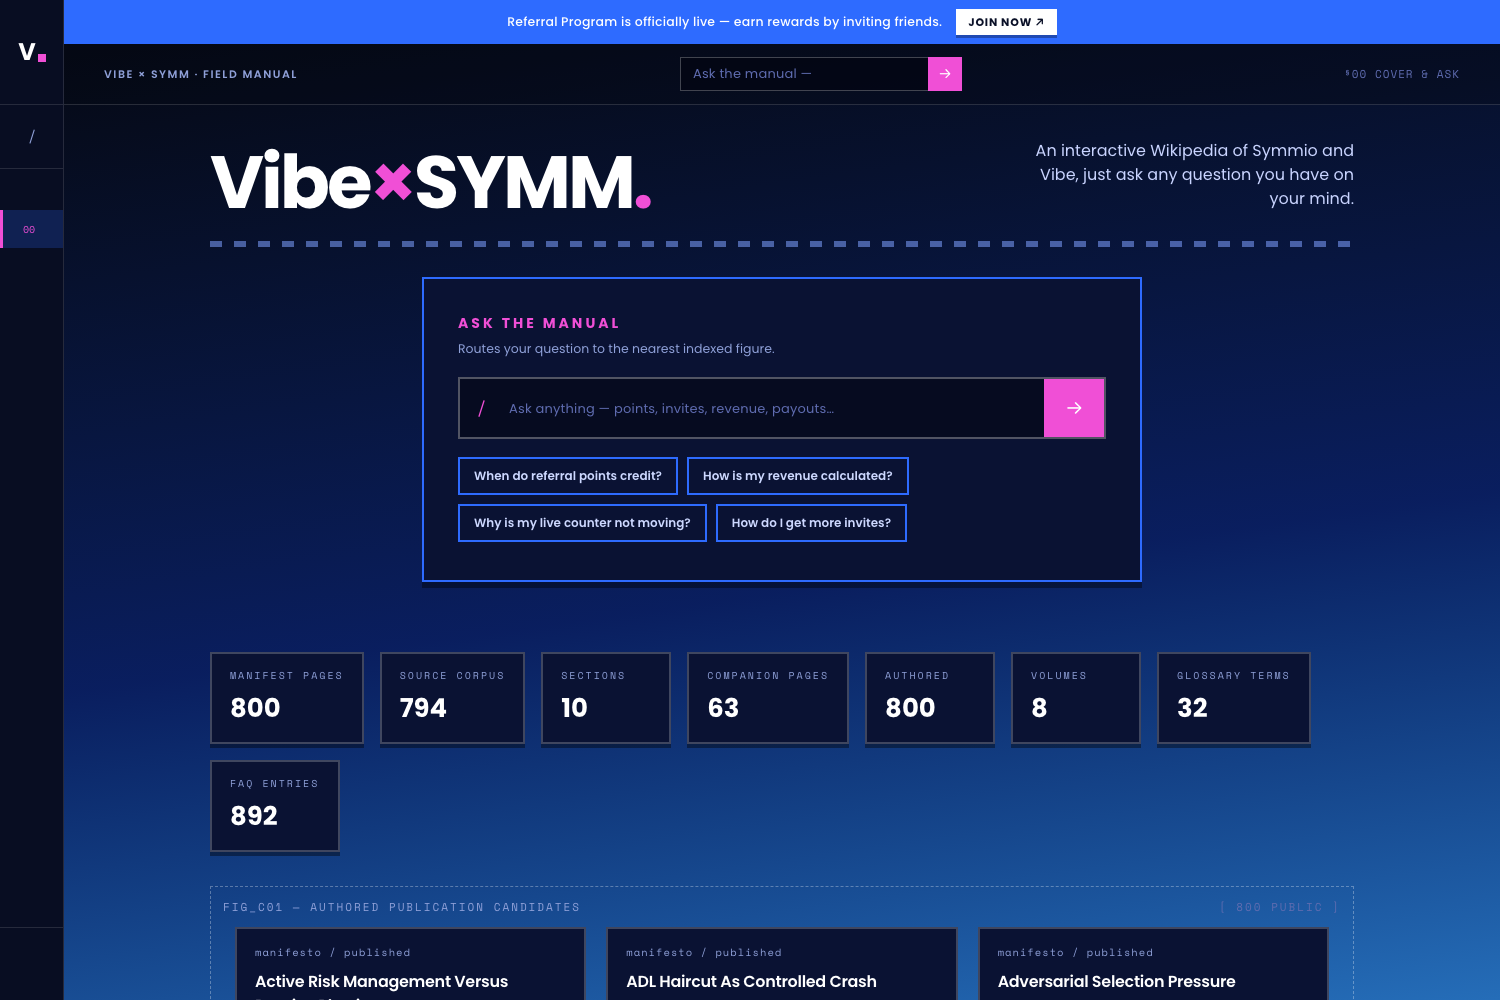
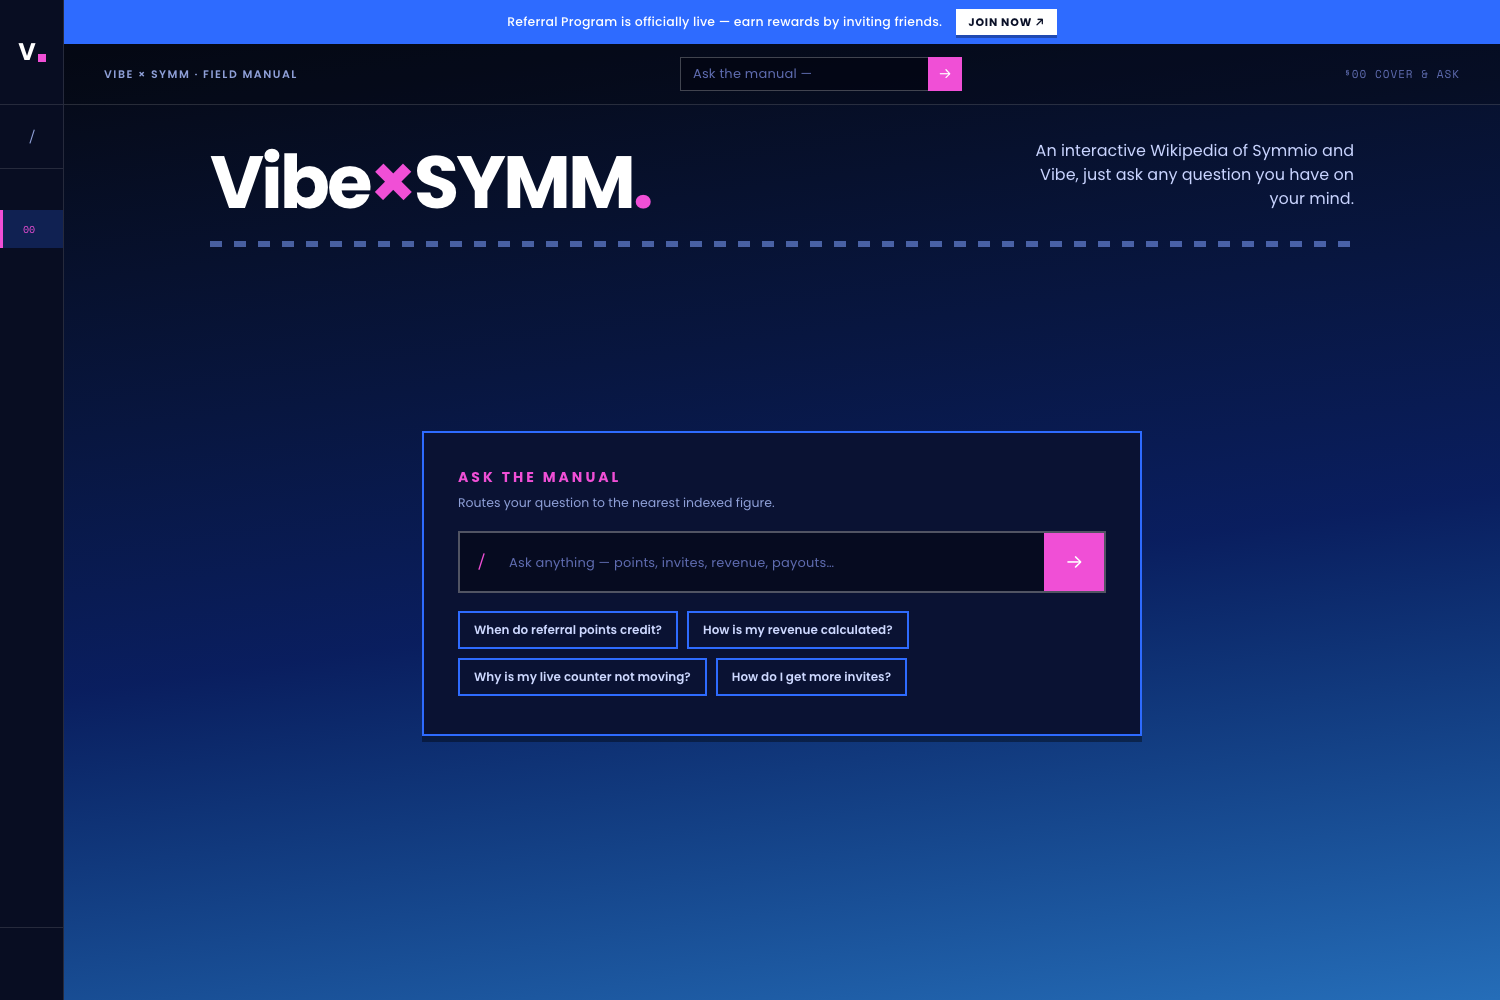
Strip §00 cover to hero + Ask panel in source (SYN-361)
Unmount CoverIndex from CoverView (component kept in tree unused),
annotate the renderCards/renderAuthoredCards operator waiver in the
parity checklist, and retake the desktop + mobile cover fidelity shots
against the rebuilt dist — previous shots were captured with the
plates still hydrating in.

Changed region(s): [[0.1227, 0.31, 0.8893, 0.868], [0.1533, 0.899, 0.8893, 1.0]]

diff --git a/web/src/app/views/CoverView.tsx b/web/src/app/views/CoverView.tsx
@@ -5,7 +5,6 @@ import type { SearchBookApp } from '../useSearchBook'
 import { AnswerBody } from '../AnswerBody'
 import { useVote } from '../useVote'
 import { useState } from 'react'
-import { CoverIndex } from './CoverIndex'
 
 /**
  * §00 Cover & Ask — comp cover layout: title row + tagline over the dashed
@@ -161,8 +160,6 @@ export function CoverView({ app }: { app: SearchBookApp }) {
           }
         />
       </div>
-
-      <CoverIndex app={app} />
 
       <DismissGuard
         open={guardOpen}

diff --git a/docs/goals/field-manual-v2/parity-checklist.md b/docs/goals/field-manual-v2/parity-checklist.md
@@ -88,8 +88,8 @@ Current behavior (bug context): old UI has **no visual reaction** on vote; `reco
 
 ## 7. Remaining views (M7)
 
-- [x] `renderCards` → top-12 unique seeded-route pages, meta section, 3 source chips + Open page (L3181).
-- [x] `renderAuthoredCards` → publicAuthoredPages max 12, meta `section / status`, 4 chips + Open page (L3206).
+- [x] `renderCards` → top-12 unique seeded-route pages, meta section, 3 source chips + Open page (L3181). **Operator waiver 2026-07-04 (SYN-361, SYN-358 review): removed from the §00 cover — `CoverIndex` unmounted; cover is hero + Ask only.**
+- [x] `renderAuthoredCards` → publicAuthoredPages max 12, meta `section / status`, 4 chips + Open page (L3206). **Same SYN-361 waiver — `CoverIndex.tsx` kept in tree unmounted if a future home is wanted.**
 - [x] `renderJourneys` (L3226): journeyMap fallback to `corpus.journeys` (promise=focus, entryQuestion=focus, steps built from pageById); audience meta; entry-question chip (`data-example-query`); numbered steps (`data-jump`).
 - [x] `renderExampleQuestions` chips (L3271).
 - [x] `renderCollections` → collection cards (pageCount, sourceUrl link) (L3284).
